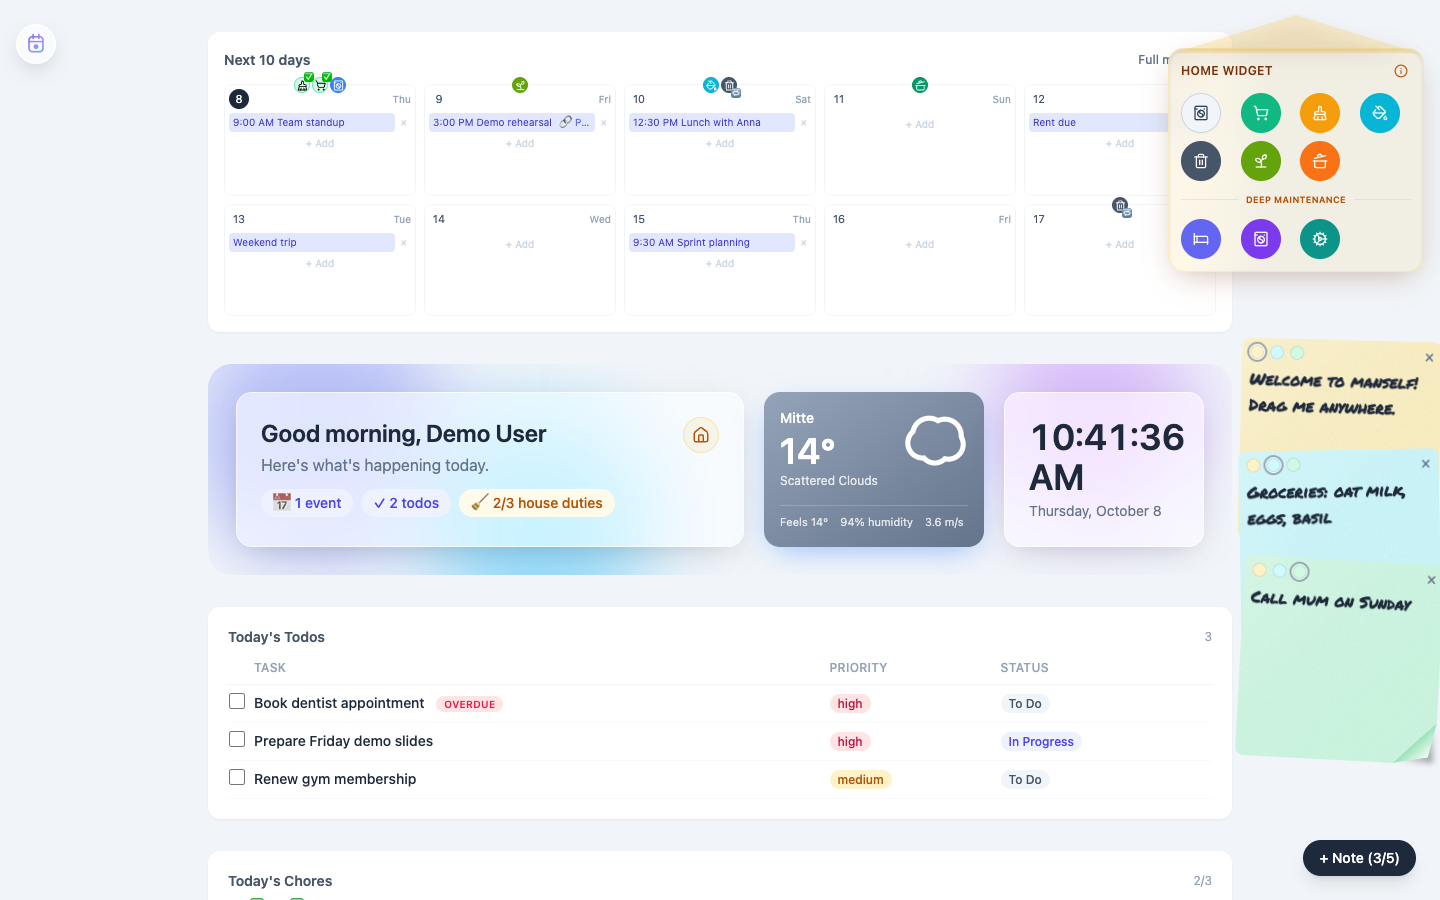
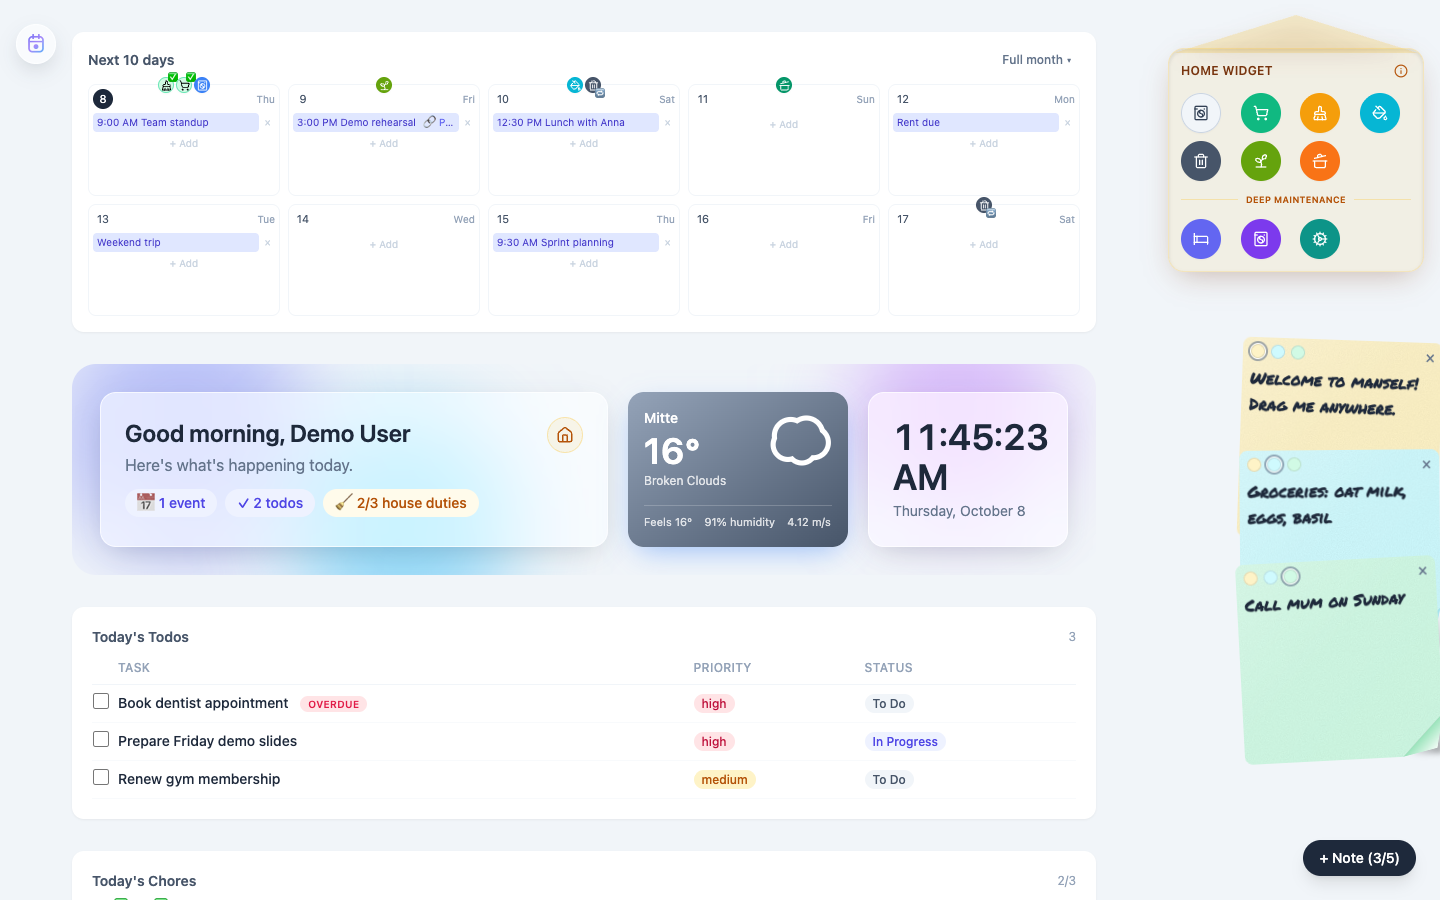
Stop the Home Widget covering the calendar (#63)
The widget floated over the top-right of the page from 640px wide, but the
content is centred and up to 1024px wide, so it hid the 'Full month' toggle
and the right-hand calendar cells on anything under ~1570px. It now floats
only from 1280px, with a matching gutter on the content until the window is
wide enough for the space to exist anyway; below that it sits in the page
flow like on mobile. README and landing screenshots retaken.

diff --git a/frontend/src/components/dashboard/ChoresWidget.vue b/frontend/src/components/dashboard/ChoresWidget.vue
@@ -257,12 +257,13 @@ const legendItems = [
      are exactly the colors called out in spec, so the opacity-modifier
      utilities below hit those rgba() values precisely.
      Mobile-first: normal document flow instead of floating over content
-     there's no room for it to float over; sm: and up restores the original
-     fixed, floating widget. mt-16 on mobile clears SidePanel's fixed
-     top-left trigger button (top-6, h-10), which would otherwise sit on
-     top of this widget's title since that trigger stays fixed regardless
-     of document flow. */
-  @apply relative mx-auto mb-6 mt-16 w-full max-w-xs rounded-2xl border border-amber-400/20 bg-amber-400/10 sm:fixed sm:right-4 sm:top-12 sm:z-50 sm:mx-0 sm:mb-0 sm:mt-0 sm:w-64;
+     there's no room for it to float over; xl: (1280px) and up restores the
+     original fixed, floating widget. The dashboard reserves a gutter for it
+     (see DashboardView.vue), so it never covers the calendar. mt-16 below
+     xl clears SidePanel's fixed top-left trigger button (top-6, h-10), which
+     would otherwise sit on top of this widget's title since that trigger
+     stays fixed regardless of document flow. */
+  @apply relative mx-auto mb-6 mt-16 w-full max-w-xs rounded-2xl border border-amber-400/20 bg-amber-400/10 xl:fixed xl:right-4 xl:top-12 xl:z-50 xl:mx-0 xl:mb-0 xl:mt-0 xl:w-64;
   backdrop-filter: blur(20px);
   -webkit-backdrop-filter: blur(20px);
   box-shadow:

diff --git a/frontend/src/views/DashboardView.vue b/frontend/src/views/DashboardView.vue
@@ -17,7 +17,7 @@ const isChoresWidgetOpen = ref(true);
 </script>
 
 <template>
-  <main class="dashboard-view">
+  <main class="dashboard-view" :class="{ 'dashboard-view--widget-docked': isChoresWidgetOpen }">
     <Transition
       enter-active-class="transition ease-out duration-200"
       enter-from-class="transform opacity-0 scale-95"
@@ -58,6 +58,13 @@ const isChoresWidgetOpen = ref(true);
 <style scoped>
 .dashboard-view {
   @apply flex-1 px-6 py-8;
+}
+/* From xl the chores widget floats at the right edge (16rem wide, 1rem from
+   the edge), so the content gets a matching gutter and slides left of it
+   instead of sitting underneath. Wide screens already have that space on
+   either side of the centred content, so the gutter goes away there. */
+.dashboard-view--widget-docked {
+  @apply xl:pr-[18.5rem] min-[1600px]:pr-6;
 }
 .dashboard-view__calendar {
   @apply mx-auto max-w-5xl;
